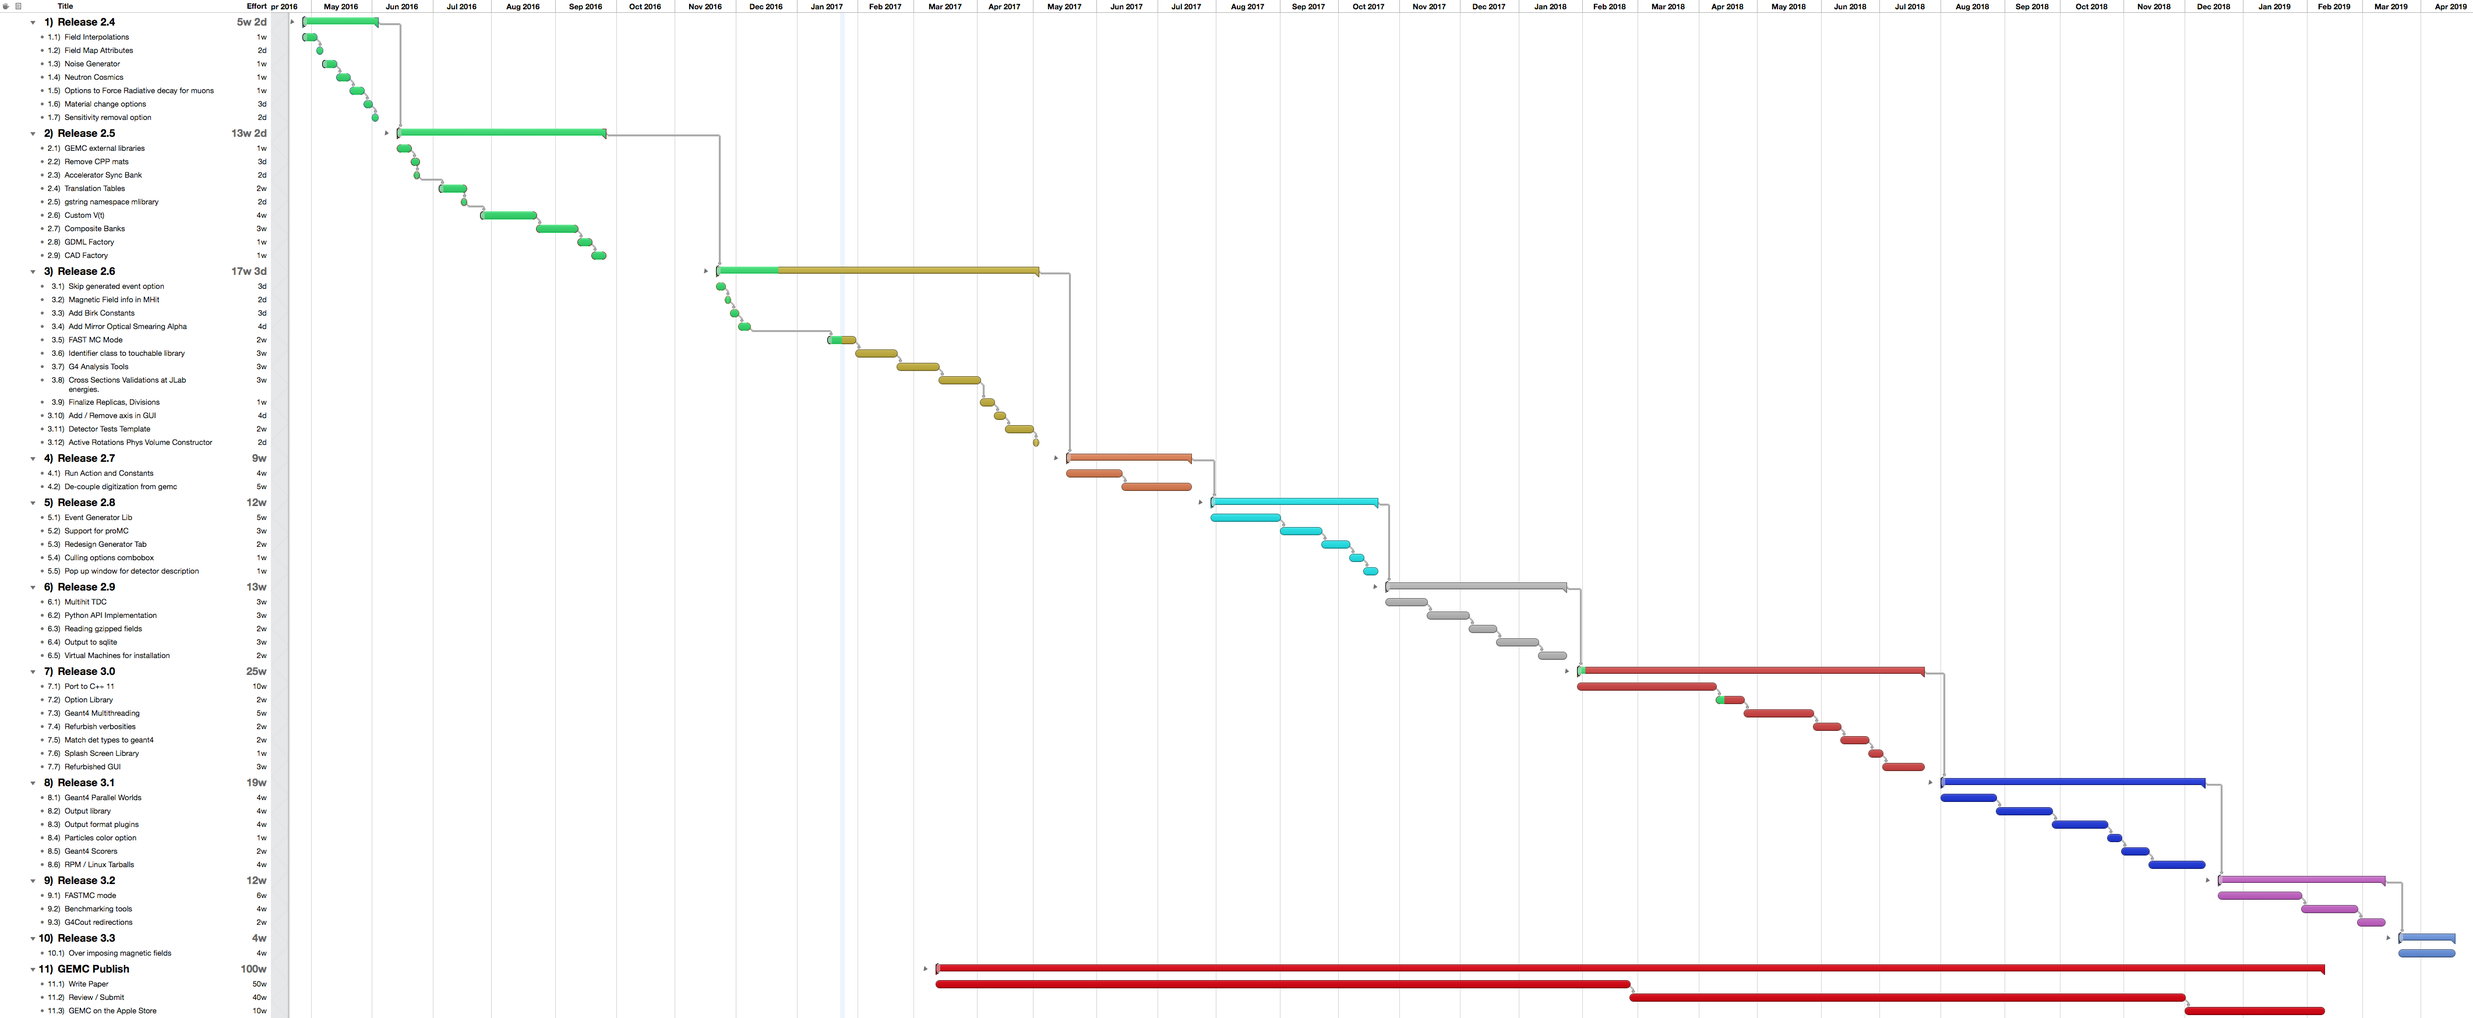
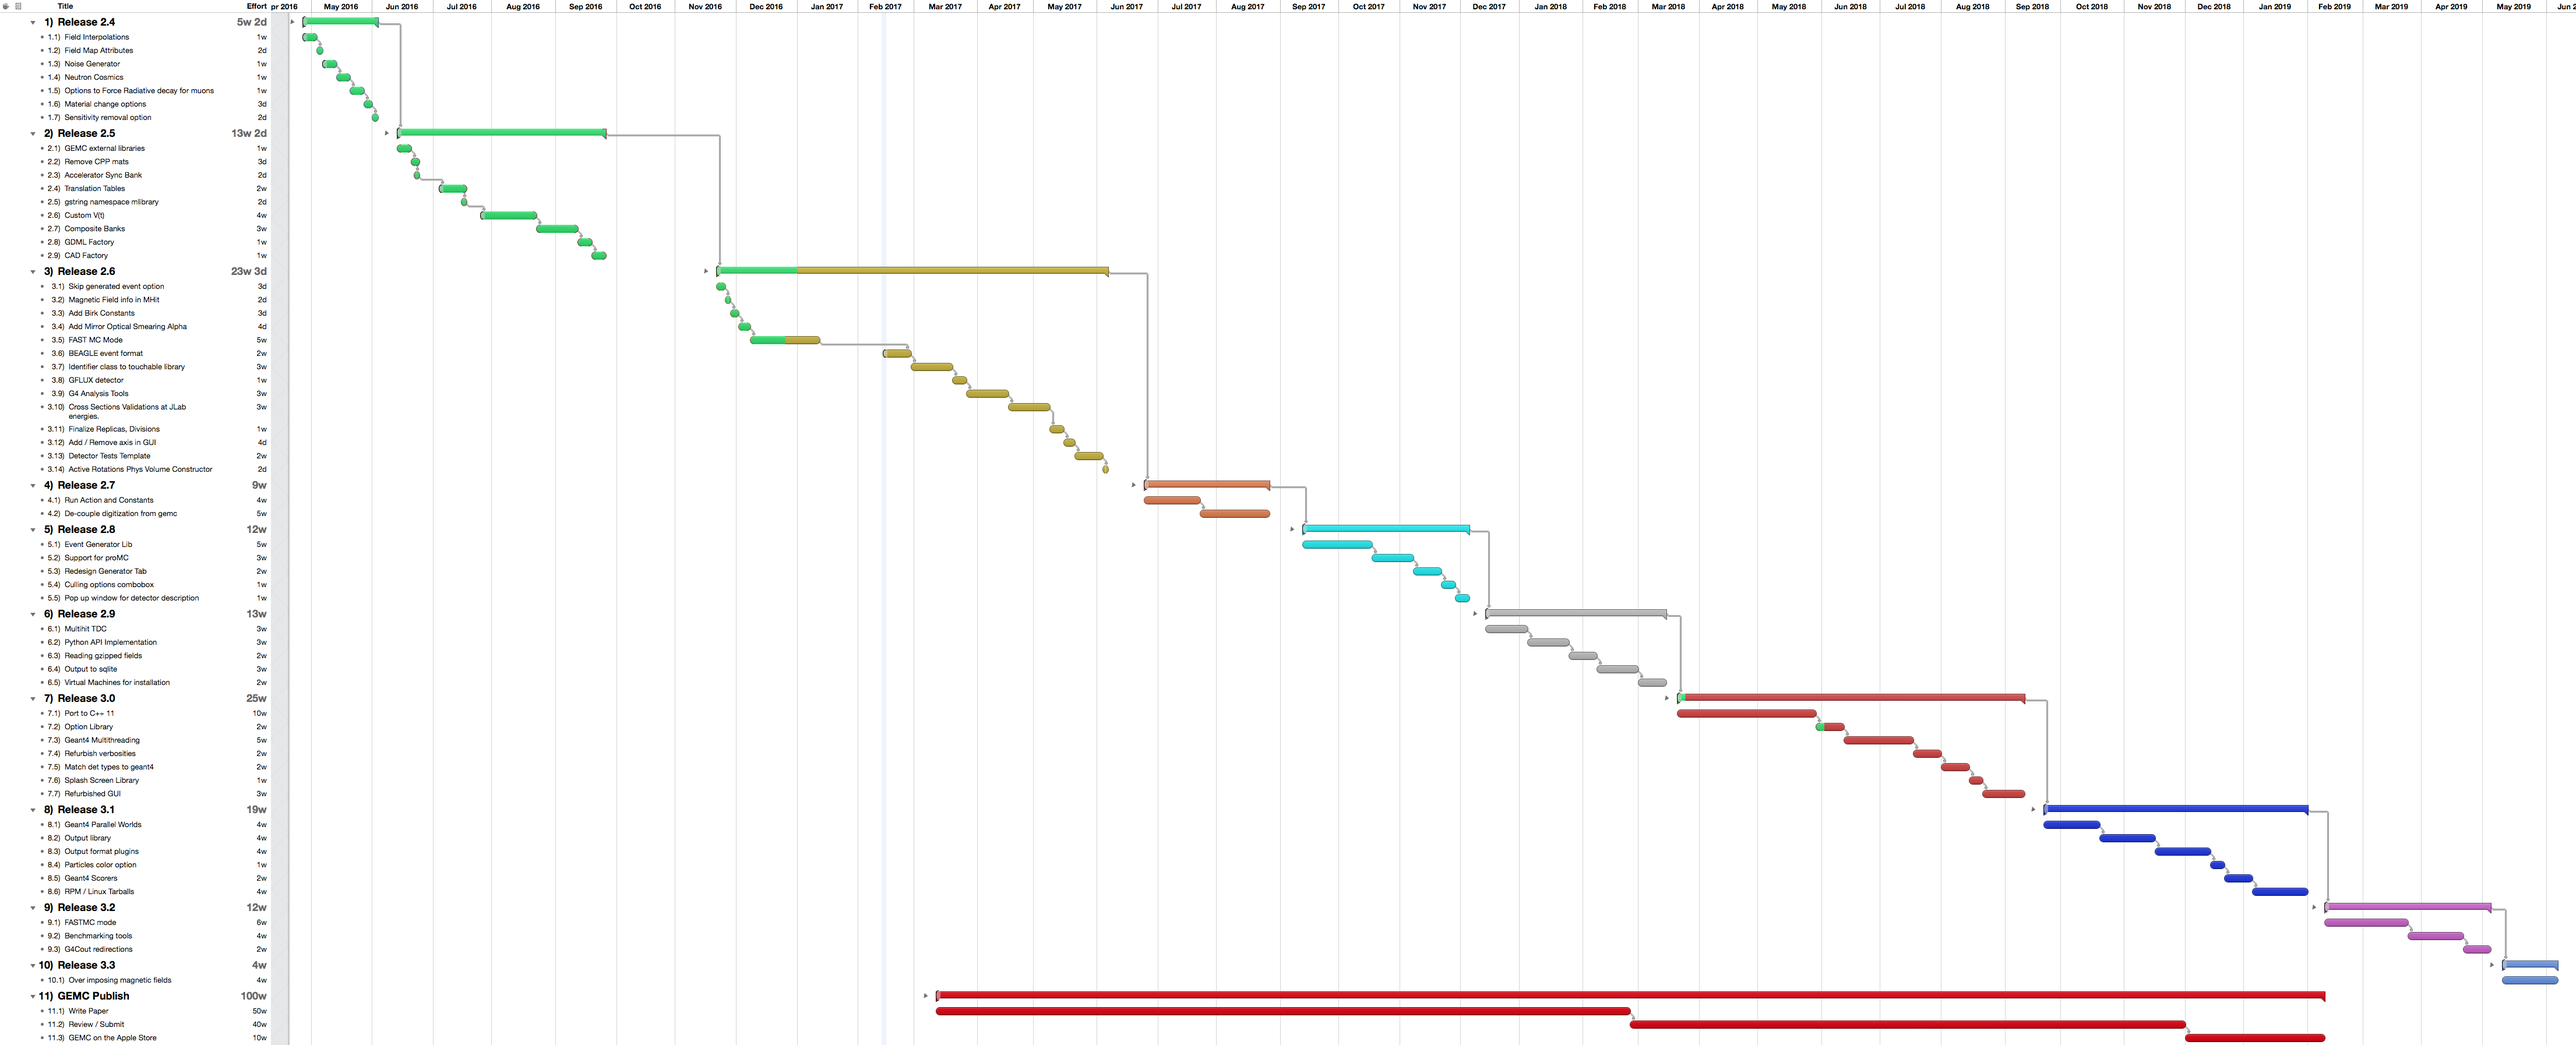
updated roadmap

diff --git a/webPage/source/documentation/releases/roadmap.rst b/webPage/source/documentation/releases/roadmap.rst
@@ -64,7 +64,7 @@ GEMC 2.5 - September 2016
 
 
 
-GEMC 2.6 - May 2017
+GEMC 2.6 - Jun 2017
 ---------------------
 
 - SKIPGEN option ✅
@@ -77,7 +77,11 @@ GEMC 2.6 - May 2017
 
 - Fast MC mode and track smearing.
 
+- Beagle event generator.
+
 - Identifier to **touchable** library.
+
+- GFLUX hittype to record photons.
 
 - **G4Analysis Tools**.
 
@@ -94,7 +98,7 @@ GEMC 2.6 - May 2017
 
 
 
-GEMC 2.7 - Jul 2017
+GEMC 2.7 - Aug 2017
 -------------------
 
 - Run Action and Digitization Constants
@@ -105,7 +109,7 @@ GEMC 2.7 - Jul 2017
 
 
 
-GEMC 2.8 - Oct 2017
+GEMC 2.8 - Dec 2017
 ----------------------
 
 - Event generation library. This will include plugins for different formats.
@@ -120,7 +124,7 @@ GEMC 2.8 - Oct 2017
 
 
 
-GEMC 2.9 - Jan 2018
+GEMC 2.9 - Mar 2018
 ------------------------
 
 - Multihit TDC
@@ -136,7 +140,7 @@ GEMC 2.9 - Jan 2018
 
 
 
-GEMC 3.0 - July 2018
+GEMC 3.0 - Sep 2018
 --------------------
 
 - gemc 3.0 will make use of many **c++11** features and optimization.
@@ -156,7 +160,7 @@ GEMC 3.0 - July 2018
 
 
 
-GEMC 3.1 - December 2018
+GEMC 3.1 - Feb 2019
 ------------------------
 
 - Geant4 **parallel worlds**.
@@ -173,7 +177,7 @@ GEMC 3.1 - December 2018
 
 
 
-GEMC 3.2 - February 2019
+GEMC 3.2 - May 2019
 ------------------------
 
 - FASTMC mode. Simplified physics? Calorimeter parameterisation? Geant4 Bias?
@@ -187,7 +191,7 @@ GEMC 3.2 - February 2019
 
 
 
-GEMC 3.3 - March 2019
+GEMC 3.3 - Jul 2019
 ---------------------
 
 - Overimposing magnetic fields
